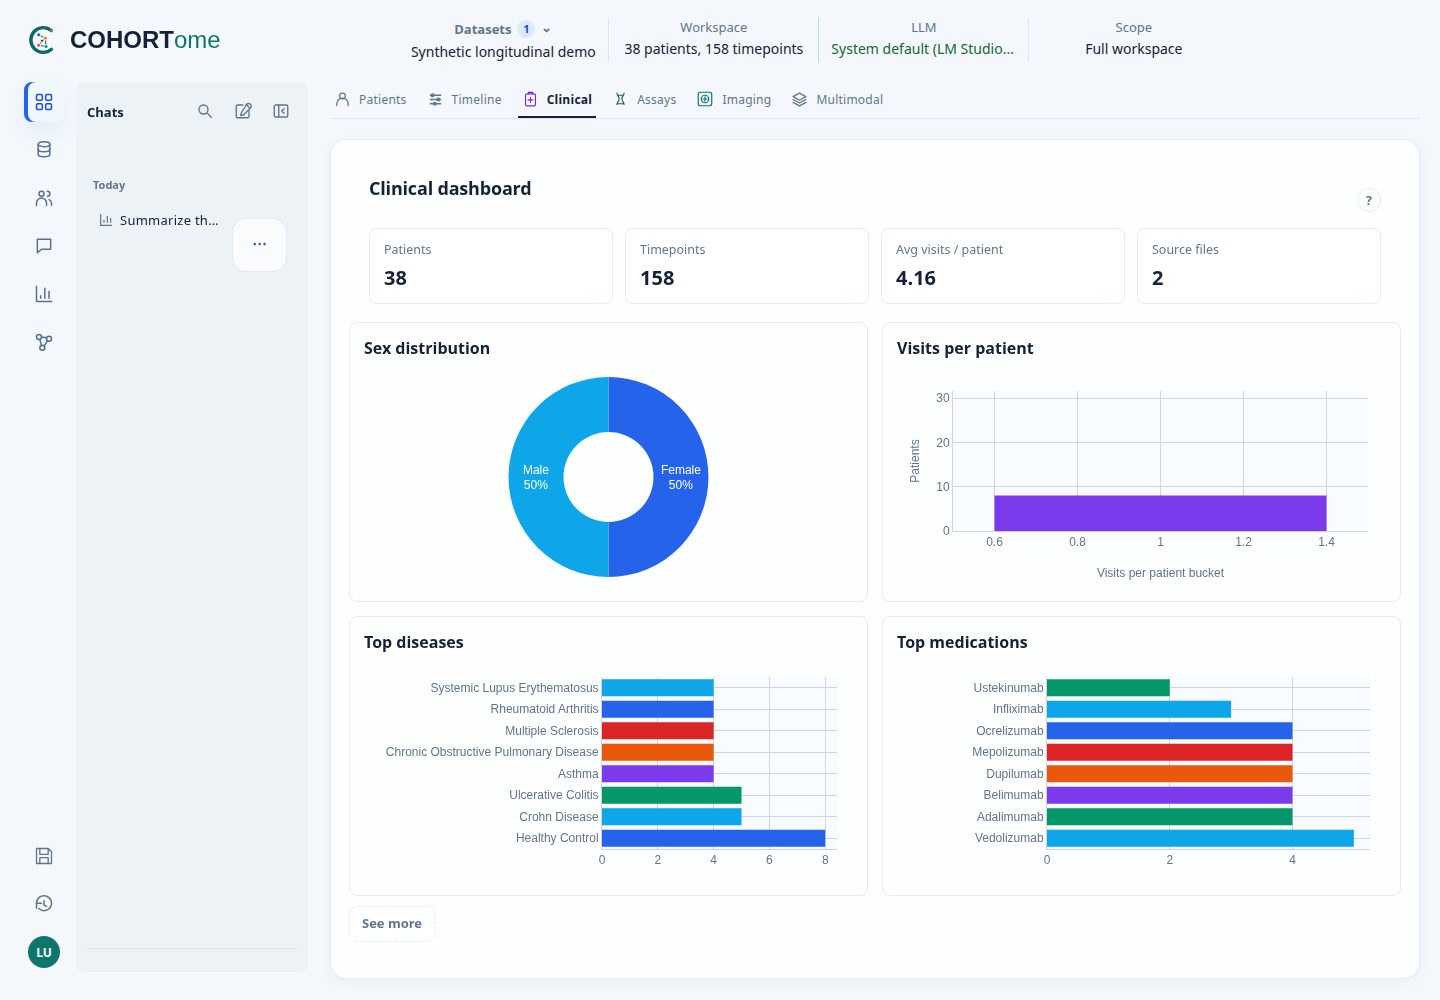
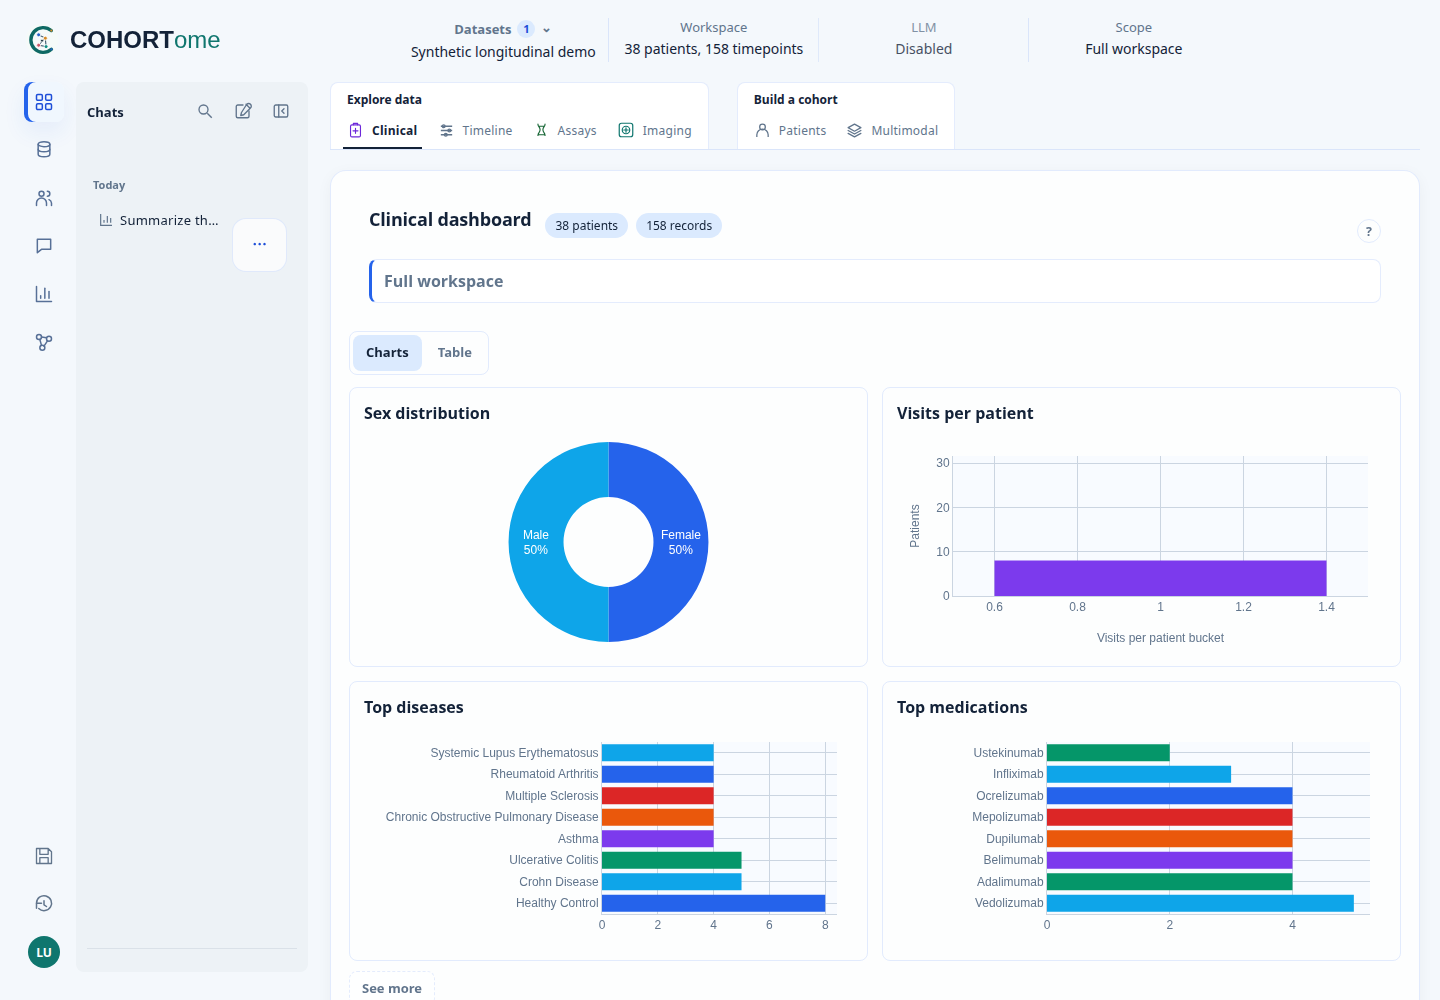
Update docs

diff --git a/scripts/capture_docs_screenshots.py b/scripts/capture_docs_screenshots.py
@@ -7,6 +7,7 @@ Optional: --llm-url http://HOST:1234/v1 --llm-model MODEL captures a real
 General-question reply. Only the example prompt is sent, not dataset records.
 Use --walkthrough-video to refresh the small silent multimodal clip and poster.
 Use --updated-views for the dataset, patient, assay, variant and multimodal screenshots.
+Use --cohort-scope for shared filters, clinical statistics and local-agent settings.
 Use --biosamples-demo PATH with the public CINECA + GEUVADIS package for two biosample views.
 """
 from __future__ import annotations
@@ -62,9 +63,13 @@ def main() -> int:
     parser.add_argument('--llm-url', help='Explicit OpenAI-compatible endpoint for the AI example')
     parser.add_argument('--llm-model', default='openai/gpt-oss-20b')
     parser.add_argument('--updated-views', action='store_true', help='Capture only dataset, patient, assay, variant and multimodal views')
+    parser.add_argument('--cohort-scope', action='store_true', help='Capture shared filters, clinical statistics and local-agent settings using bundled demos')
     parser.add_argument('--walkthrough-video', action='store_true', help='Record only the silent multimodal docs walkthrough')
     parser.add_argument('--biosamples-demo', type=Path, help='Public CINECA + GEUVADIS package root; capture only biosample views')
     args = parser.parse_args()
+    if sum(bool(value) for value in (args.updated_views, args.walkthrough_video,
+                                    args.biosamples_demo, args.cohort_scope)) > 1:
+        parser.error('Choose only one capture mode')
     if args.biosamples_demo:
         args.biosamples_demo = args.biosamples_demo.resolve()
         resource = json.loads((args.biosamples_demo / 'resource.json').read_text())
@@ -235,6 +240,52 @@ if os.environ.get('LM_STUDIO_ENABLED') == 'true':
                     capture('dashboard-biosamples.png', '[data-patient-inventory]')
                     browser.close()
                     print('Captured patient origins and biosample inventory from the public CINECA demo.')
+                    return 0
+
+                if args.cohort_scope:
+                    page.locator('#dashboardTabBtn').click()
+                    expect(page.locator('#contextCohort')).not_to_contain_text('Loading')
+                    expect(page.locator('[data-clinical-mode="table"]')).to_be_visible()
+                    capture('workspace-shell.png')
+                    page.locator('#dashboardPatientsBtn').click()
+                    panel = page.locator('#dashboardPatientsPanel')
+                    expect(panel.locator('[data-match]').first).to_be_visible()
+                    panel.get_by_role('button', name='Add clinical filter', exact=True).click()
+                    expect(panel.locator('[data-field-id]').first).to_be_visible()
+                    capture('clinical-filter-fields.png', '#dashboardPatientsPanel')
+                    panel.get_by_role('button', name='Add clinical filter', exact=True).click()
+                    page.locator('#patientDiseaseFilters [data-disease="Crohn Disease"]').click()
+                    expect(panel.locator('.cohort-scope-pending')).to_be_visible()
+                    capture('cohort-scope-draft.png', '#dashboardPatientsPanel')
+                    panel.locator('[data-scope-apply]').click()
+                    expect(panel.locator('.cohort-scope-pending')).to_be_hidden(timeout=30000)
+                    page.locator('#dashboardClinicalBtn').click()
+                    page.locator('[data-clinical-mode="table"]').click()
+                    expect(page.locator('.clinical-stats-table')).to_be_visible()
+                    capture('clinical-characteristics.png', '#dashboardClinicalPanel')
+                    response = page.request.post(url + '/datasets/select', data={
+                        'dataset_ids': ['synthetic-cross-sectional-demo']})
+                    assert response.ok
+                    page.reload(wait_until='networkidle')
+                    page.locator('#dashboardTabBtn').click()
+                    page.locator('#dashboardMultimodalBtn').click()
+                    coverage = page.locator('.multimodal-coverage')
+                    expect(coverage.locator('.coverage-result')).to_contain_text('90 patients in scope')
+                    coverage.locator('[data-disease="Systemic Lupus Erythematosus"]').click()
+                    coverage.locator('input[value=transcriptomics]').check()
+                    coverage.locator('input[value=methylation]').check()
+                    coverage.locator('[data-scope-apply]').click()
+                    expect(coverage.locator('.coverage-result')).to_contain_text('28 patients in scope', timeout=30000)
+                    capture('multimodal-selection.png', '.multimodal-coverage')
+                    page.locator('#accountMenuButton').click()
+                    page.locator('#userSettingsBtn').click()
+                    page.locator('[data-settings-section="query"]').click()
+                    page.locator('#localAgentsSettings > summary').click()
+                    expect(page.locator('#localAgentsConsent')).to_be_visible()
+                    # Capture the permission screen, never a connection token.
+                    capture('local-agents.png', '#userSettingsPanel')
+                    browser.close()
+                    print(f'Captured {len(captured)} shared-scope views from bundled synthetic data.')
                     return 0
 
                 if args.updated_views:

diff --git a/docs-site/docs/user-guide/dashboard.md b/docs-site/docs/user-guide/dashboard.md
@@ -41,12 +41,16 @@ Choose **Add clinical filter**, browse the available fields and set a condition.
 Combine rules with disease, sample-origin and ID filters. Patients and Multimodal
 share the same draft, shown as removable labels in both views.
 
+![Available clinical filter fields in the synthetic longitudinal demo](/img/screenshots/clinical-filter-fields.png)
+
 | Action | Effect |
 | --- | --- |
 | Edit filters | Marks **Unapplied changes**; the current scope stays unchanged. |
 | **Apply to scope** | Evaluates all conditions together and updates the patient scope. |
 | **Discard changes** | Restores the filters used by the current scope. |
 | **Clear filters**, then **Apply to scope** | Returns to the full workspace. |
+
+![A disease filter awaiting Apply to scope; the patient table still shows the applied group](/img/screenshots/cohort-scope-draft.png)
 
 The table and **Save patients as cohort** count describe the applied group,
 including **all matches**, not just the page. Click a clinical filter to edit
@@ -181,6 +185,24 @@ All clinical records for the selected patients are included, even when the
 selection came from a particular sample. Disease and medication counts count
 each patient once per category; categories can overlap.
 
+### Clinical characteristics
+
+Switch to **Table** for summary statistics, with one dataset shown at a time.
+The table follows the **applied scope**, just like the charts.
+
+![Clinical characteristics of the selected synthetic patients, with recorded and missing counts](/img/screenshots/clinical-characteristics.png)
+
+| Values | Summary |
+| --- | --- |
+| Categories | Patients and percentages; a patient may appear in several categories |
+| Numbers | Median and interquartile range of per-patient medians across visits |
+| Recorded / Missing | Patients with / without a usable value |
+
+These are **not baseline statistics**. Use **?** for the calculation details.
+Clinical, Timeline, Assays and Imaging follow the applied scope. New chats inherit
+it; existing chats, completed runs and saved cohorts keep their own selections.
+If applying filters fails, the previous scope remains active.
+
 ## Assays dashboard
 
 Check each assay's source dataset, modality, feature inventory, and sample
@@ -209,18 +231,6 @@ pixels remain in the configured DICOM service.
 A study listing confirms that metadata was registered, not that the image server
 is reachable. Use the viewer status and error message to check access.
 Derived imaging measurements are separate matrices produced outside COHORTome.
-
-### Clinical characteristics tables
-
-In **Clinical**, switch from **Charts** to **Table** to see the summary statistics.
-Use the dataset selector to view one dataset at a time; the patient selection
-and counts remain visible in either mode. The **?** explains the statistics.
-Clinical, Timeline, Assays and Imaging use the applied scope. New chats inherit
-it; existing chats, completed runs and saved cohorts keep their own selections.
-If applying filters fails, the previous scope remains active.
-Categories show patient counts and percentages; numeric fields show the median
-and interquartile range of per-patient medians across visits. These are not
-baseline statistics. Recorded and missing patient counts are shown for each field.
 
 ## Multimodal dashboard
 

diff --git a/docs-site/docs/user-guide/local-agents.md b/docs-site/docs/user-guide/local-agents.md
@@ -23,6 +23,8 @@ LM Studio or another provider inside COHORTome.
 4. Configure your local MCP client using the
    [connector setup](https://github.com/CNAG-Biomedical-Informatics/cohortome/tree/main/integrations/mcp).
 
+![Desktop settings for explicitly sharing a synthetic patient scope with a local agent](/img/screenshots/local-agents.png)
+
 Keep Desktop open. Treat the connection token like a password; do not paste it
 into a chat. You can revoke access from the same panel. Access also ends after
 eight hours or when Desktop restarts.

diff --git a/CHANGELOG.md b/CHANGELOG.md
@@ -1,5 +1,11 @@
 # Changelog
 
+## Unreleased
+
+- Add clinical filters and a shared patient scope across Dashboard and new chats.
+- Add per-dataset clinical characteristics tables.
+- Add read-only local MCP access to bundled synthetic demos in Desktop.
+
 ## 0.1.1 - 2026-11-05
 
 - Improve dataset loading, error handling and release packaging.
